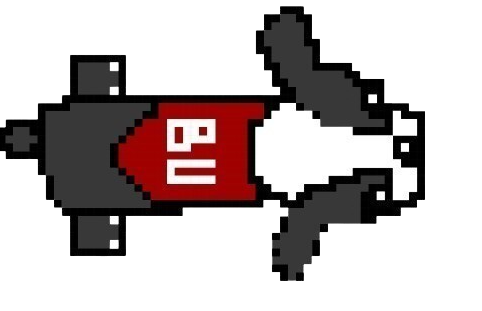
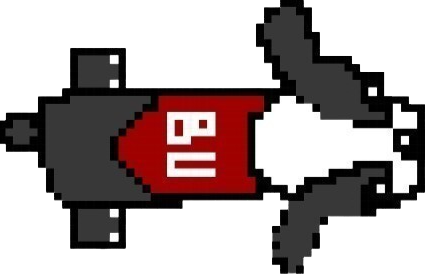
Added walls and wall collision

diff --git a/src/main.py b/src/main.py
@@ -2,6 +2,7 @@ import arcade
 import random
 import math
 import arcade.gui
+import json
 
 
 from constants import *
@@ -10,6 +11,7 @@ from player import Player
 from bullet import Bullet
 from ammo_pickup import AmmoPickup
 from audio import AudioManager  # Import AudioManager
+from wall import Wall
 
 class TopDownShooter(arcade.View):
     def __init__(self):
@@ -20,6 +22,8 @@ class TopDownShooter(arcade.View):
         self.enemy_list = arcade.SpriteList()
         self.bullet_list = arcade.SpriteList()
         self.ammo_pickup_list = arcade.SpriteList()
+        self.wall_list = arcade.SpriteList()
+
 
         # Initialize player
         self.player_sprite = None
@@ -64,6 +68,8 @@ class TopDownShooter(arcade.View):
 
         # Spawn the initial wave of enemies
         self.spawn_enemies()
+
+        self.load_map("assets/map1.json")
 
         if self.audio_manager:
             self.audio_manager.stop_startup_sound()
@@ -224,6 +230,8 @@ class TopDownShooter(arcade.View):
         self.enemy_list.draw()
         self.bullet_list.draw()
         self.ammo_pickup_list.draw()
+        self.wall_list.draw()
+
 
         # Draw cones
         self.draw_cones()
@@ -234,6 +242,26 @@ class TopDownShooter(arcade.View):
          # Draw arrows pointing towards enemies that haven't fired for 15 seconds
         self.draw_enemy_arrows()
 
+    def load_map(self, map_file):
+        # Clear existing walls
+        self.wall_list = arcade.SpriteList()
+
+        # Load the map data
+        with open(map_file, "r") as f:
+            map_data = json.load(f)
+
+        for wall_data in map_data["walls"]:
+            x, y = wall_data["x"], wall_data["y"]
+            width, height = wall_data["width"], wall_data["height"]
+
+            # Check if the wall is within the circular world boundary
+            dx = x - WORLD_CENTER_X
+            dy = y - WORLD_CENTER_Y
+            if math.hypot(dx, dy) + max(width, height) / 2 <= WORLD_RADIUS:
+                wall = Wall(width, height, arcade.color.GRAY, x, y)
+                self.wall_list.append(wall)
+
+    
     def draw_hud(self):
         arcade.draw_rectangle_filled(
             self.camera.position[0] + 100,
@@ -277,6 +305,10 @@ class TopDownShooter(arcade.View):
         self.enemy_list.update()
         self.bullet_list.update()
         self.ammo_pickup_list.update()
+
+        for wall in arcade.check_for_collision_with_list(self.player_sprite, self.wall_list):
+            self.player_sprite.change_x = 0
+            self.player_sprite.change_y = 0
 
         # Update camera to follow player, constrained within the world circle
         cam_x = self.player_sprite.center_x - self.window.width / 2
@@ -608,6 +640,7 @@ class GameOverView(arcade.View):
             font_size=20,
             anchor_x="center",
         )
+        
 
     def on_click_replay(self, event):
         # Restart the game

diff --git a/src/constants.py b/src/constants.py
@@ -6,7 +6,7 @@ SCREEN_HEIGHT = 600
 SCREEN_TITLE = "Top-Down Shooter Game"
 
 # Player constants
-PLAYER_SCALING = 0.3
+PLAYER_SCALING = 0.2
 PLAYER_MOVEMENT_SPEED = 2
 PLAYER_HEALTH = 100
 PLAYER_FIRE_RATE = 15  # Frames between shots

diff --git a/src/wall.py b/src/wall.py
@@ -1,0 +1,7 @@
+import arcade
+
+class Wall(arcade.SpriteSolidColor):
+    def __init__(self, width, height, color, x, y):
+        super().__init__(width, height, color)
+        self.center_x = x
+        self.center_y = y
